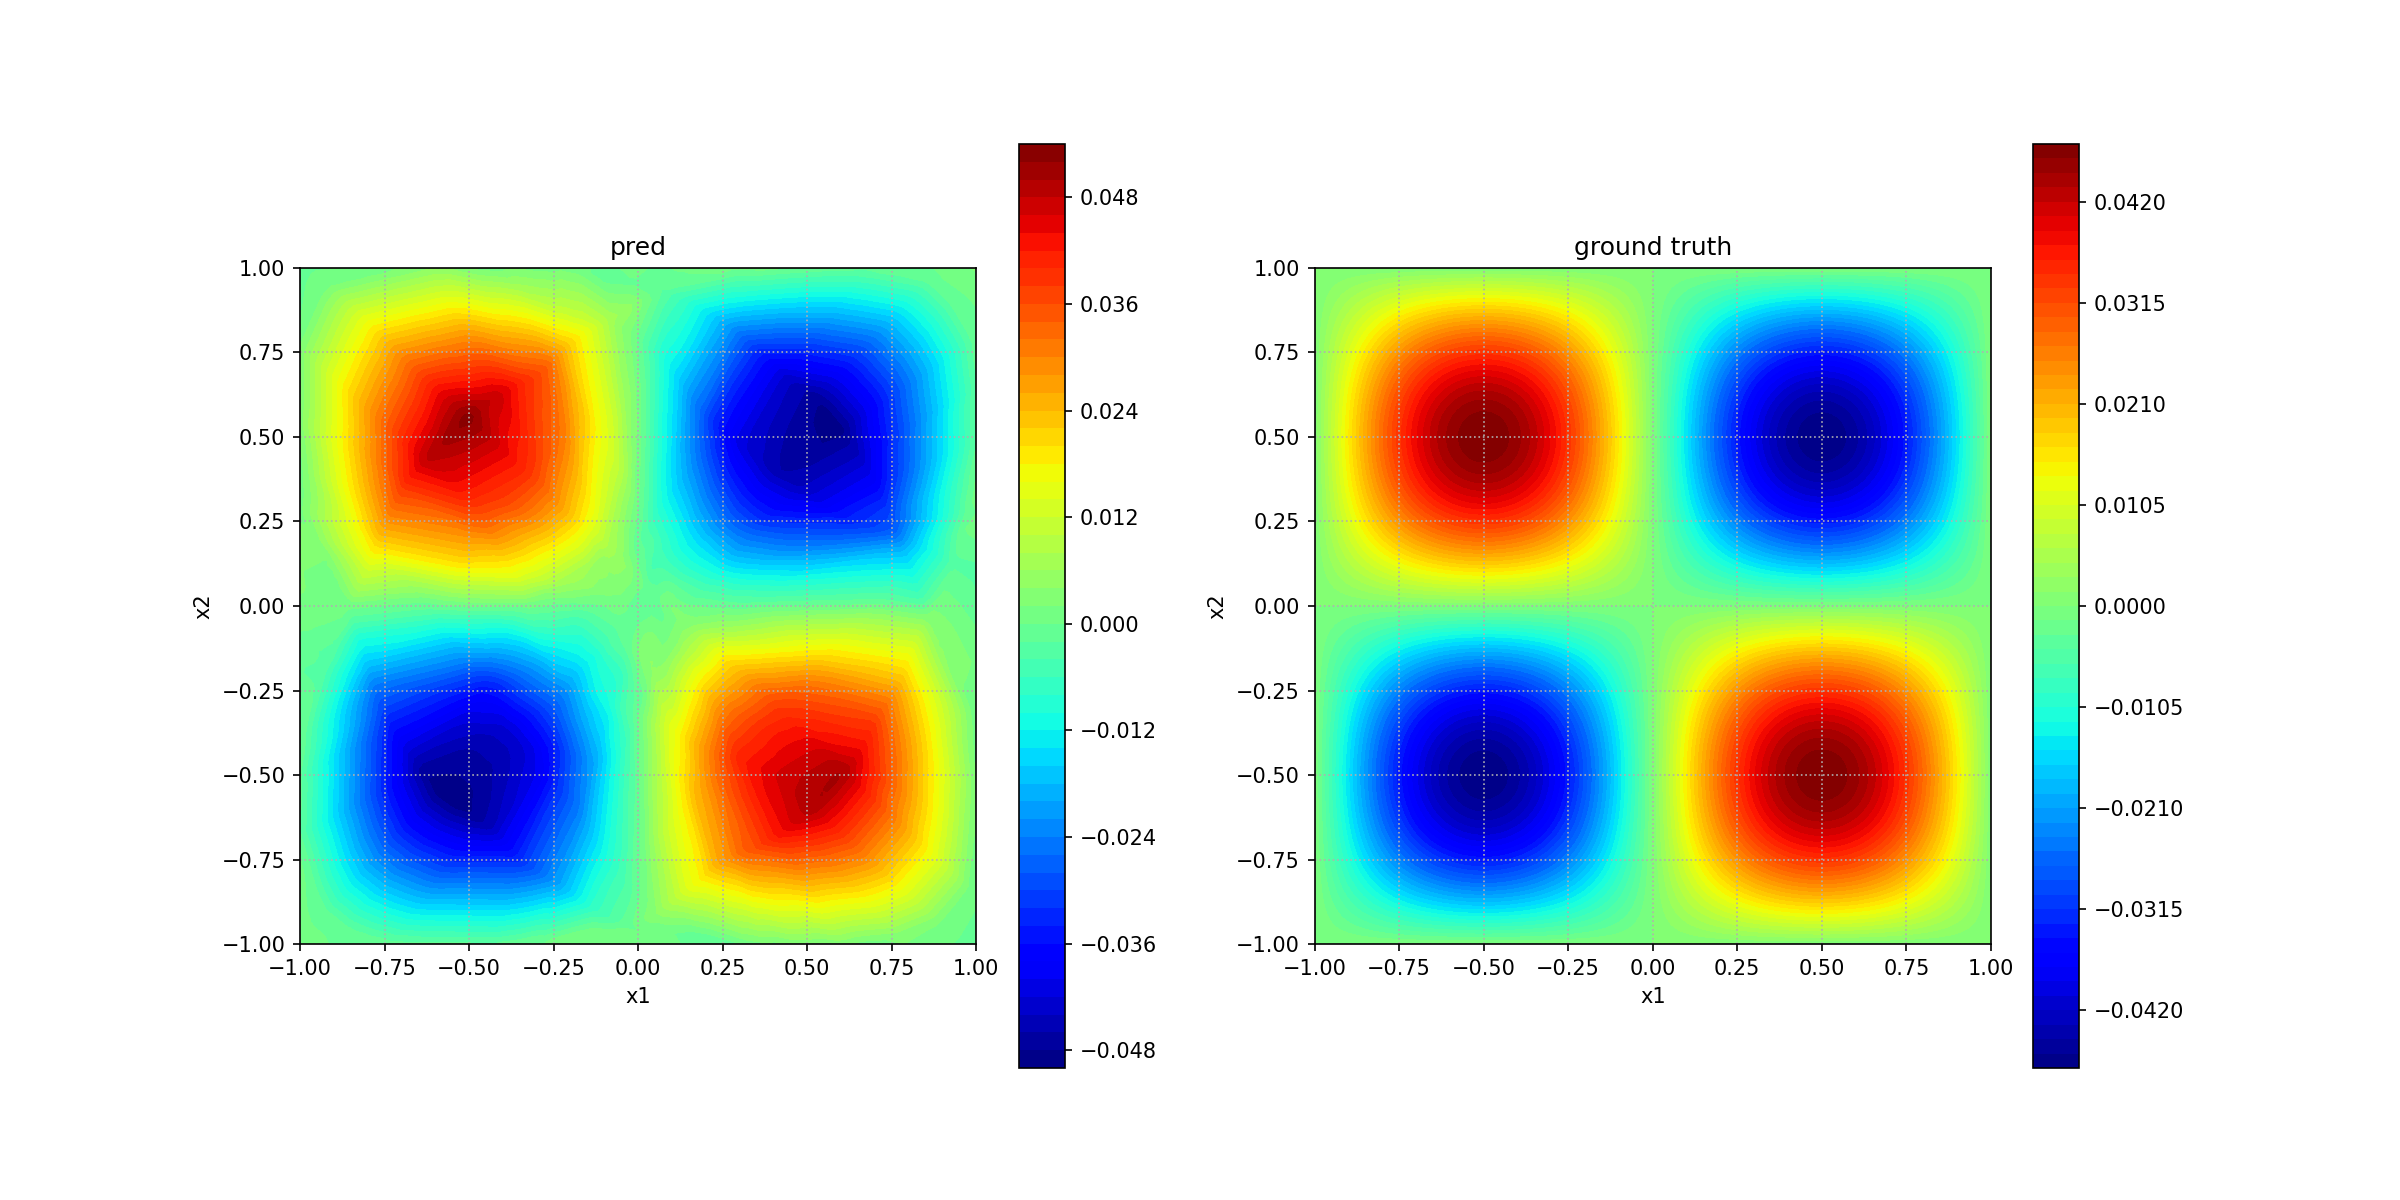
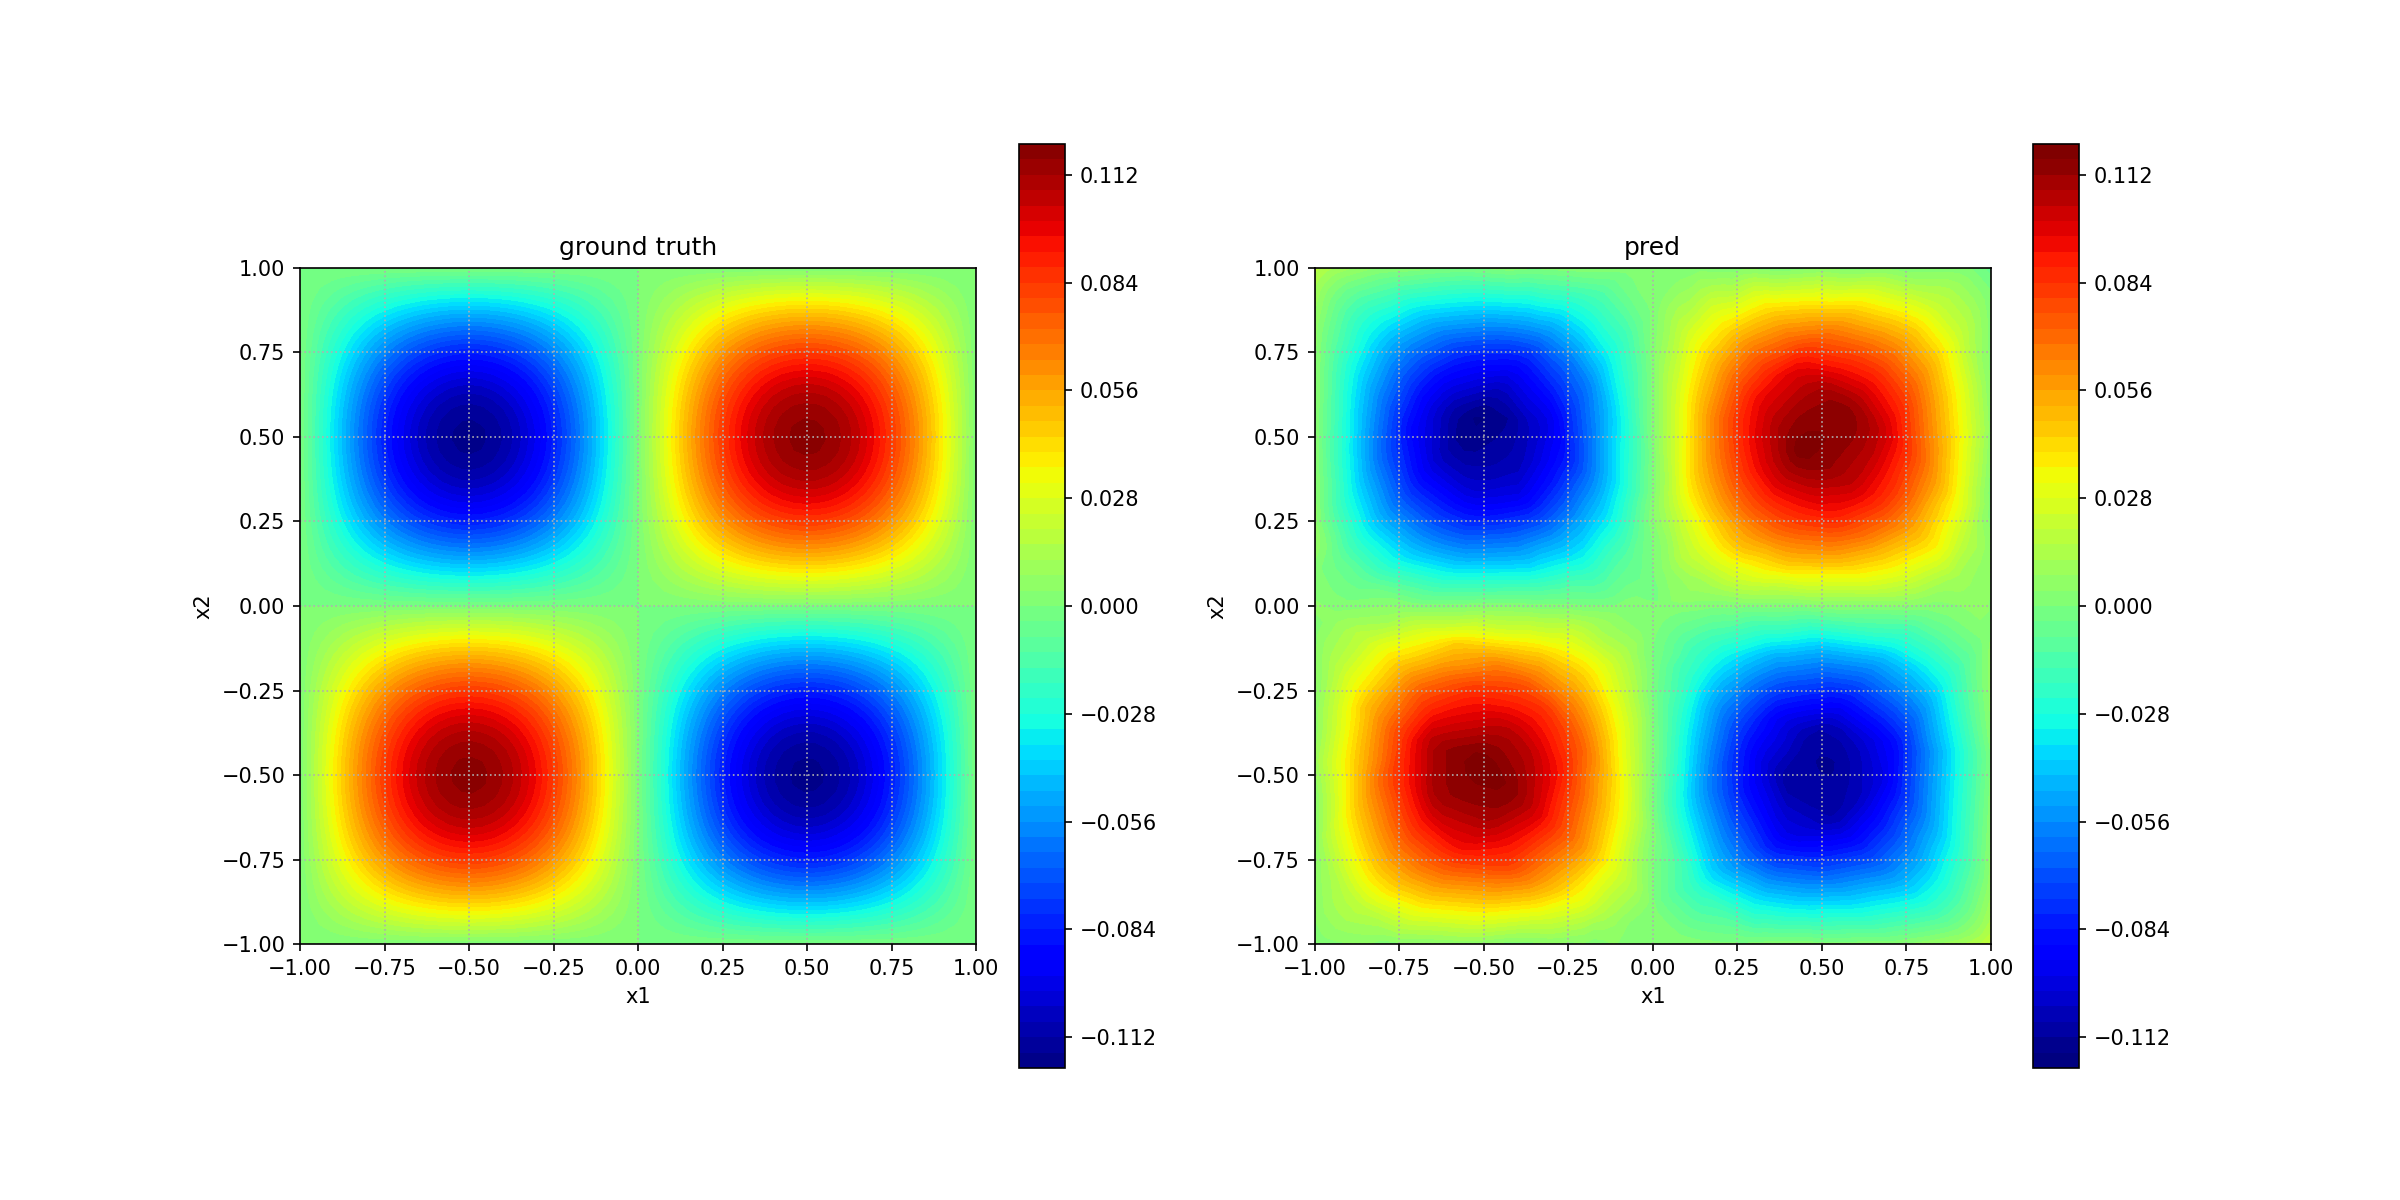
deepONet on new dataset

diff --git a/DONet/deepONet_plot.py b/DONet/deepONet_plot.py
@@ -1,0 +1,132 @@
+'''
+Usage:
+python DONet/deepONet_plot.py -e heat
+python DONet/deepONet_plot.py -e wave
+
+Trained on MacBook Air M2 within 30 min 
+'''
+
+import numpy as np
+import torch
+import matplotlib.pyplot as plt
+import deepxde as dde
+import argparse
+
+parser = argparse.ArgumentParser(description='For choosing the equation to solve.')
+parser.add_argument('-e')
+
+args = parser.parse_args()
+
+n_d = 2
+if (args.e == 'heat'): 
+  n_train =150
+  n_test = 50
+
+elif (args.e == 'wave'):
+  n_train = 512
+  n_test = 128
+
+else:
+  print(args.e + " not implemented")
+  exit(0)
+
+losses = np.empty([n_d])
+
+for d in range(n_d):
+  np.random.seed(0)
+  torch.manual_seed(0)
+  if (args.e == 'heat'): 
+    data = np.load('assets/plotting_utils/' + args.e + '_plotting_data_d' + str(6**d) + '.npy')
+    u_0 = data[:, ]
+    # u_T = np.load('assets/plotting_utils/' + args.e + '_64_64/uTs_d' + str(6**d) + '.npy')
+    print(u_0.shape)
+    assert(0)
+    img_id = 20
+  else:
+    u_0 = np.load('Dataset/' + args.e + '/64_64/u0s_d' + str(24**d) + '.npy')
+    u_T = np.load('Dataset/' + args.e + '/64_64/uTs_d' + str(24**d) + '.npy')
+    img_id = 23
+
+  input_x = data[:, 1:].reshape(-1, 2)
+
+  # normalize data
+  mean_in = u_0[:n_train,:,:,0].mean()
+  std_in = u_0[:n_train,:,:,0].std()
+  mean_out = u_T[:n_train,:,:].mean()
+  std_out = u_T[:n_train,:,:].std()
+
+  tr_inputs = (u_0[:n_train,:,:,0].reshape(n_train, -1) - mean_in) / std_in
+  tr_label = (u_T[:n_train,:,:].reshape(n_train, -1) - mean_out) / std_out
+  ts_inputs = (u_0[n_train:,:,:,0].reshape(n_test, -1) - mean_in) / std_in
+  ts_label = (u_T[n_train:,:,:].reshape(n_test, -1) - mean_out) / std_out
+
+  # build dataset
+  X_train = (tr_inputs.astype(np.float32), input_x.astype(np.float32))
+  y_train = tr_label.astype(np.float32)
+  X_test = (ts_inputs.astype(np.float32), input_x.astype(np.float32))
+  y_test = ts_label.astype(np.float32)
+  data = dde.data.TripleCartesianProd(
+      X_train=X_train, y_train=y_train, X_test=X_test, y_test=y_test
+  )
+
+  # choose network
+  m = input_x.shape[0]
+  dim_x = 2
+  if (n_d>1):
+    layers = 40
+  else:
+    layers = 80
+  net = dde.nn.DeepONetCartesianProd(
+      [m, layers, layers],
+      [dim_x, layers, layers],
+      "relu",
+      "Glorot normal",
+  )
+
+  # Define a Model
+  model = dde.Model(data, net)
+
+  # Compile and train.
+  model.compile("adam", lr=0.001, metrics=["mean l2 relative error"])
+  losshistory, train_state = model.train(iterations=1000)
+
+  # Plot the loss trajectory
+  # dde.utils.plot_loss_history(losshistory)
+  # plt.savefig('assets/DON/' + args.e + '/loss_d' + str(d+1) + '.png', dpi=150)
+
+  # evaluate model
+  res = 64
+  X_eval = X_test
+  y_eval = y_test
+  ev_loc = input_x
+
+  pred = model.predict(X_eval)
+  # print(pred.shape)
+  pred = pred * std_out + mean_out
+  gt = y_eval * std_out + mean_out
+  err = (np.mean((pred - gt)**2) / np.mean(gt**2))**0.5 * 100
+  losses[d] = err
+
+  # visualize results
+  fig, axs = plt.subplots(1, 2, figsize=(16, 8), dpi=150)
+  im1 = axs[0].contourf(ev_loc[:, 0].reshape(res,res), ev_loc[:, 1].reshape(res,res), gt[-5,:].reshape(res,res), 64, cmap="jet")
+  axs[0].set_xlabel("x1")
+  axs[0].set_ylabel("x2")
+  plt.colorbar(im1, ax=axs[0])
+  axs[0].grid(True, which="both", ls=":")
+  axs[0].set_title("ground truth")
+  axs[0].set(aspect="equal")
+  im2 = axs[1].contourf(ev_loc[:, 0].reshape(res,res), ev_loc[:, 1].reshape(res,res), pred[-5,:].reshape(res,res), 64, cmap="jet")
+  axs[1].set_xlabel("x1")
+  axs[1].set_ylabel("x2")
+  plt.colorbar(im2, ax=axs[1])
+  axs[1].grid(True, which="both", ls=":")
+  axs[1].set_title("pred")
+  axs[1].set(aspect="equal")
+  # plt.show()
+  if (args.e=='diffusion'):
+    plt.savefig('assets/DON/' + args.e + '/res_d' + str(d+1) + '.png', dpi=150)
+  else:
+    plt.savefig('assets/DON/' + args.e + '/res_K' + str(24**d) + '.png', dpi=150)
+
+print("MSE Losses:", losses)

diff --git a/DONet/deepONet.py b/DONet/deepONet.py
@@ -25,7 +25,7 @@ if (args.e == 'diffusion'):
 elif (args.e == 'wave'):
   n_train = 512
   n_test = 128
-  n_d = 2
+  n_d = 1
   n_res = 1
 else:
   print(args.e + " not implemented")
@@ -40,6 +40,8 @@ for d in range(n_d):
     u_0 = np.load('Dataset/' + args.e + '/64_64/u0s_d' + str(d+1) + '.npy')
     u_T = np.load('Dataset/' + args.e + '/64_64/uTs_d' + str(d+1) + '.npy')
     img_id = 20
+    if (d!=0 and d!=5):
+      continue
   else:
     u_0 = np.load('Dataset/' + args.e + '/64_64/u0s_K' + str(24**d) + '.npy')
     u_T = np.load('Dataset/' + args.e + '/64_64/uTs_K' + str(24**d) + '.npy')
@@ -139,25 +141,46 @@ for d in range(n_d):
     losses[r, d] = err
 
   # visualize results
-  fig, axs = plt.subplots(1, 2, figsize=(16, 8), dpi=150)
-  im1 = axs[0].contourf(ev_loc[:, 0].reshape(res,res), ev_loc[:, 1].reshape(res,res), gt[-5,:].reshape(res,res), 64, cmap="jet")
-  axs[0].set_xlabel("x1")
-  axs[0].set_ylabel("x2")
-  plt.colorbar(im1, ax=axs[0])
-  axs[0].grid(True, which="both", ls=":")
-  axs[0].set_title("ground truth")
-  axs[0].set(aspect="equal")
-  im2 = axs[1].contourf(ev_loc[:, 0].reshape(res,res), ev_loc[:, 1].reshape(res,res), pred[-5,:].reshape(res,res), 64, cmap="jet")
-  axs[1].set_xlabel("x1")
-  axs[1].set_ylabel("x2")
-  plt.colorbar(im2, ax=axs[1])
-  axs[1].grid(True, which="both", ls=":")
-  axs[1].set_title("pred")
-  axs[1].set(aspect="equal")
-  # plt.show()
-  if (args.e=='diffusion'):
-    plt.savefig('assets/DON/' + args.e + '/res_d' + str(d+1) + '.png', dpi=150)
-  else:
-    plt.savefig('assets/DON/' + args.e + '/res_K' + str(24**d) + '.png', dpi=150)
+  if (d==0 or d==n_d-1):
+    res = 64
+    if (args.e=='diffusion'):
+      data = np.load(f"assets/plotting_utils/heat_plotting_data_d{d+1}.npy")
+      u_0 = data[:, 3+d].reshape(1,-1)
+      u_T = data[:, 4+d].reshape(1,-1)
+    else:
+      data = np.load(f"assets/plotting_utils/wave_plotting_data_d{24**d}.npy")
+      u_0 = data[:, 2+24**d * 24**d].reshape(1,-1)
+      u_T = data[:, 3+24**d * 24**d].reshape(1,-1)
+
+    ev_inputs = (u_0 - mean_in) / std_in
+    ev_label = (u_T - mean_out) / std_out
+    # print(u_0.shape, u_T.shape)
+    ev_loc = data[:, :2]
+    X_eval = (ev_inputs.astype(np.float32), ev_loc.astype(np.float32))
+    y_eval = ev_label.astype(np.float32)
+    pred = model.predict(X_eval)
+    pred = pred * std_out + mean_out
+    gt = y_eval * std_out + mean_out
+
+    fig, axs = plt.subplots(1, 2, figsize=(16, 8), dpi=150)
+    im1 = axs[0].contourf(ev_loc[:, 0].reshape(res,res), ev_loc[:, 1].reshape(res,res), gt.reshape(res,res), 64, cmap="jet")
+    axs[0].set_xlabel("x1")
+    axs[0].set_ylabel("x2")
+    plt.colorbar(im1, ax=axs[0])
+    axs[0].grid(True, which="both", ls=":")
+    axs[0].set_title("ground truth")
+    axs[0].set(aspect="equal")
+    im2 = axs[1].contourf(ev_loc[:, 0].reshape(res,res), ev_loc[:, 1].reshape(res,res), pred.reshape(res,res), 64, cmap="jet", vmin=gt.min(), vmax=gt.max())
+    axs[1].set_xlabel("x1")
+    axs[1].set_ylabel("x2")
+    plt.colorbar(im2, ax=axs[1])
+    axs[1].grid(True, which="both", ls=":")
+    axs[1].set_title("pred")
+    axs[1].set(aspect="equal")
+    # plt.show()
+    if (args.e=='diffusion'):
+      plt.savefig('assets/DON/' + args.e + '/res_d' + str(d+1) + '.png', dpi=150)
+    else:
+      plt.savefig('assets/DON/' + args.e + '/res_K' + str(24**d) + '.png', dpi=150)
 
 print("MSE Losses:", losses)

diff --git a/assets/plotting_utils/plotting_wave_utils.py b/assets/plotting_utils/plotting_wave_utils.py
@@ -3,9 +3,9 @@ import torch
 import matplotlib.pyplot as plt
 
 # change d to get desire plotting data
-d = 1
+d = 24
 res = 64
-data = np.load(f"./wave_plotting_data_d{d}.npy")
+data = np.load(f"assets/plotting_utils/wave_plotting_data_d{d}.npy")
 print(data[0])
 input_x = data[:, :2]
 mu = data[0, 2:2+d*d]
@@ -27,4 +27,4 @@ axs[1].set_ylabel("x2")
 axs[1].set_title("u_T")
 plt.colorbar(im2, ax=axs[1])
 axs[1].grid(True, which="both", ls=":")
-plt.show()
+plt.savefig(f'assets/plotting_utils/wave_K{d}.png', dpi=150)

diff --git a/assets/plotting_utils/plotting_heat_utils.py b/assets/plotting_utils/plotting_heat_utils.py
@@ -5,7 +5,7 @@ import matplotlib.pyplot as plt
 d = 6
 res = 64
 # replace with desired plotting data file path
-data = np.load(f"./heat_plotting_data_d{d}.npy")
+data = np.load(f"assets/plotting_utils/heat_plotting_data_d{d}.npy")
 print(data[0])
 input_x = data[:, :2]
 mu = data[0, 2:2+d]
@@ -27,4 +27,4 @@ axs[1].set_ylabel("x2")
 axs[1].set_title("u_T")
 plt.colorbar(im2, ax=axs[1])
 axs[1].grid(True, which="both", ls=":")
-plt.show()
+plt.savefig(f'assets/plotting_utils/heat_d{d}.png', dpi=150)
